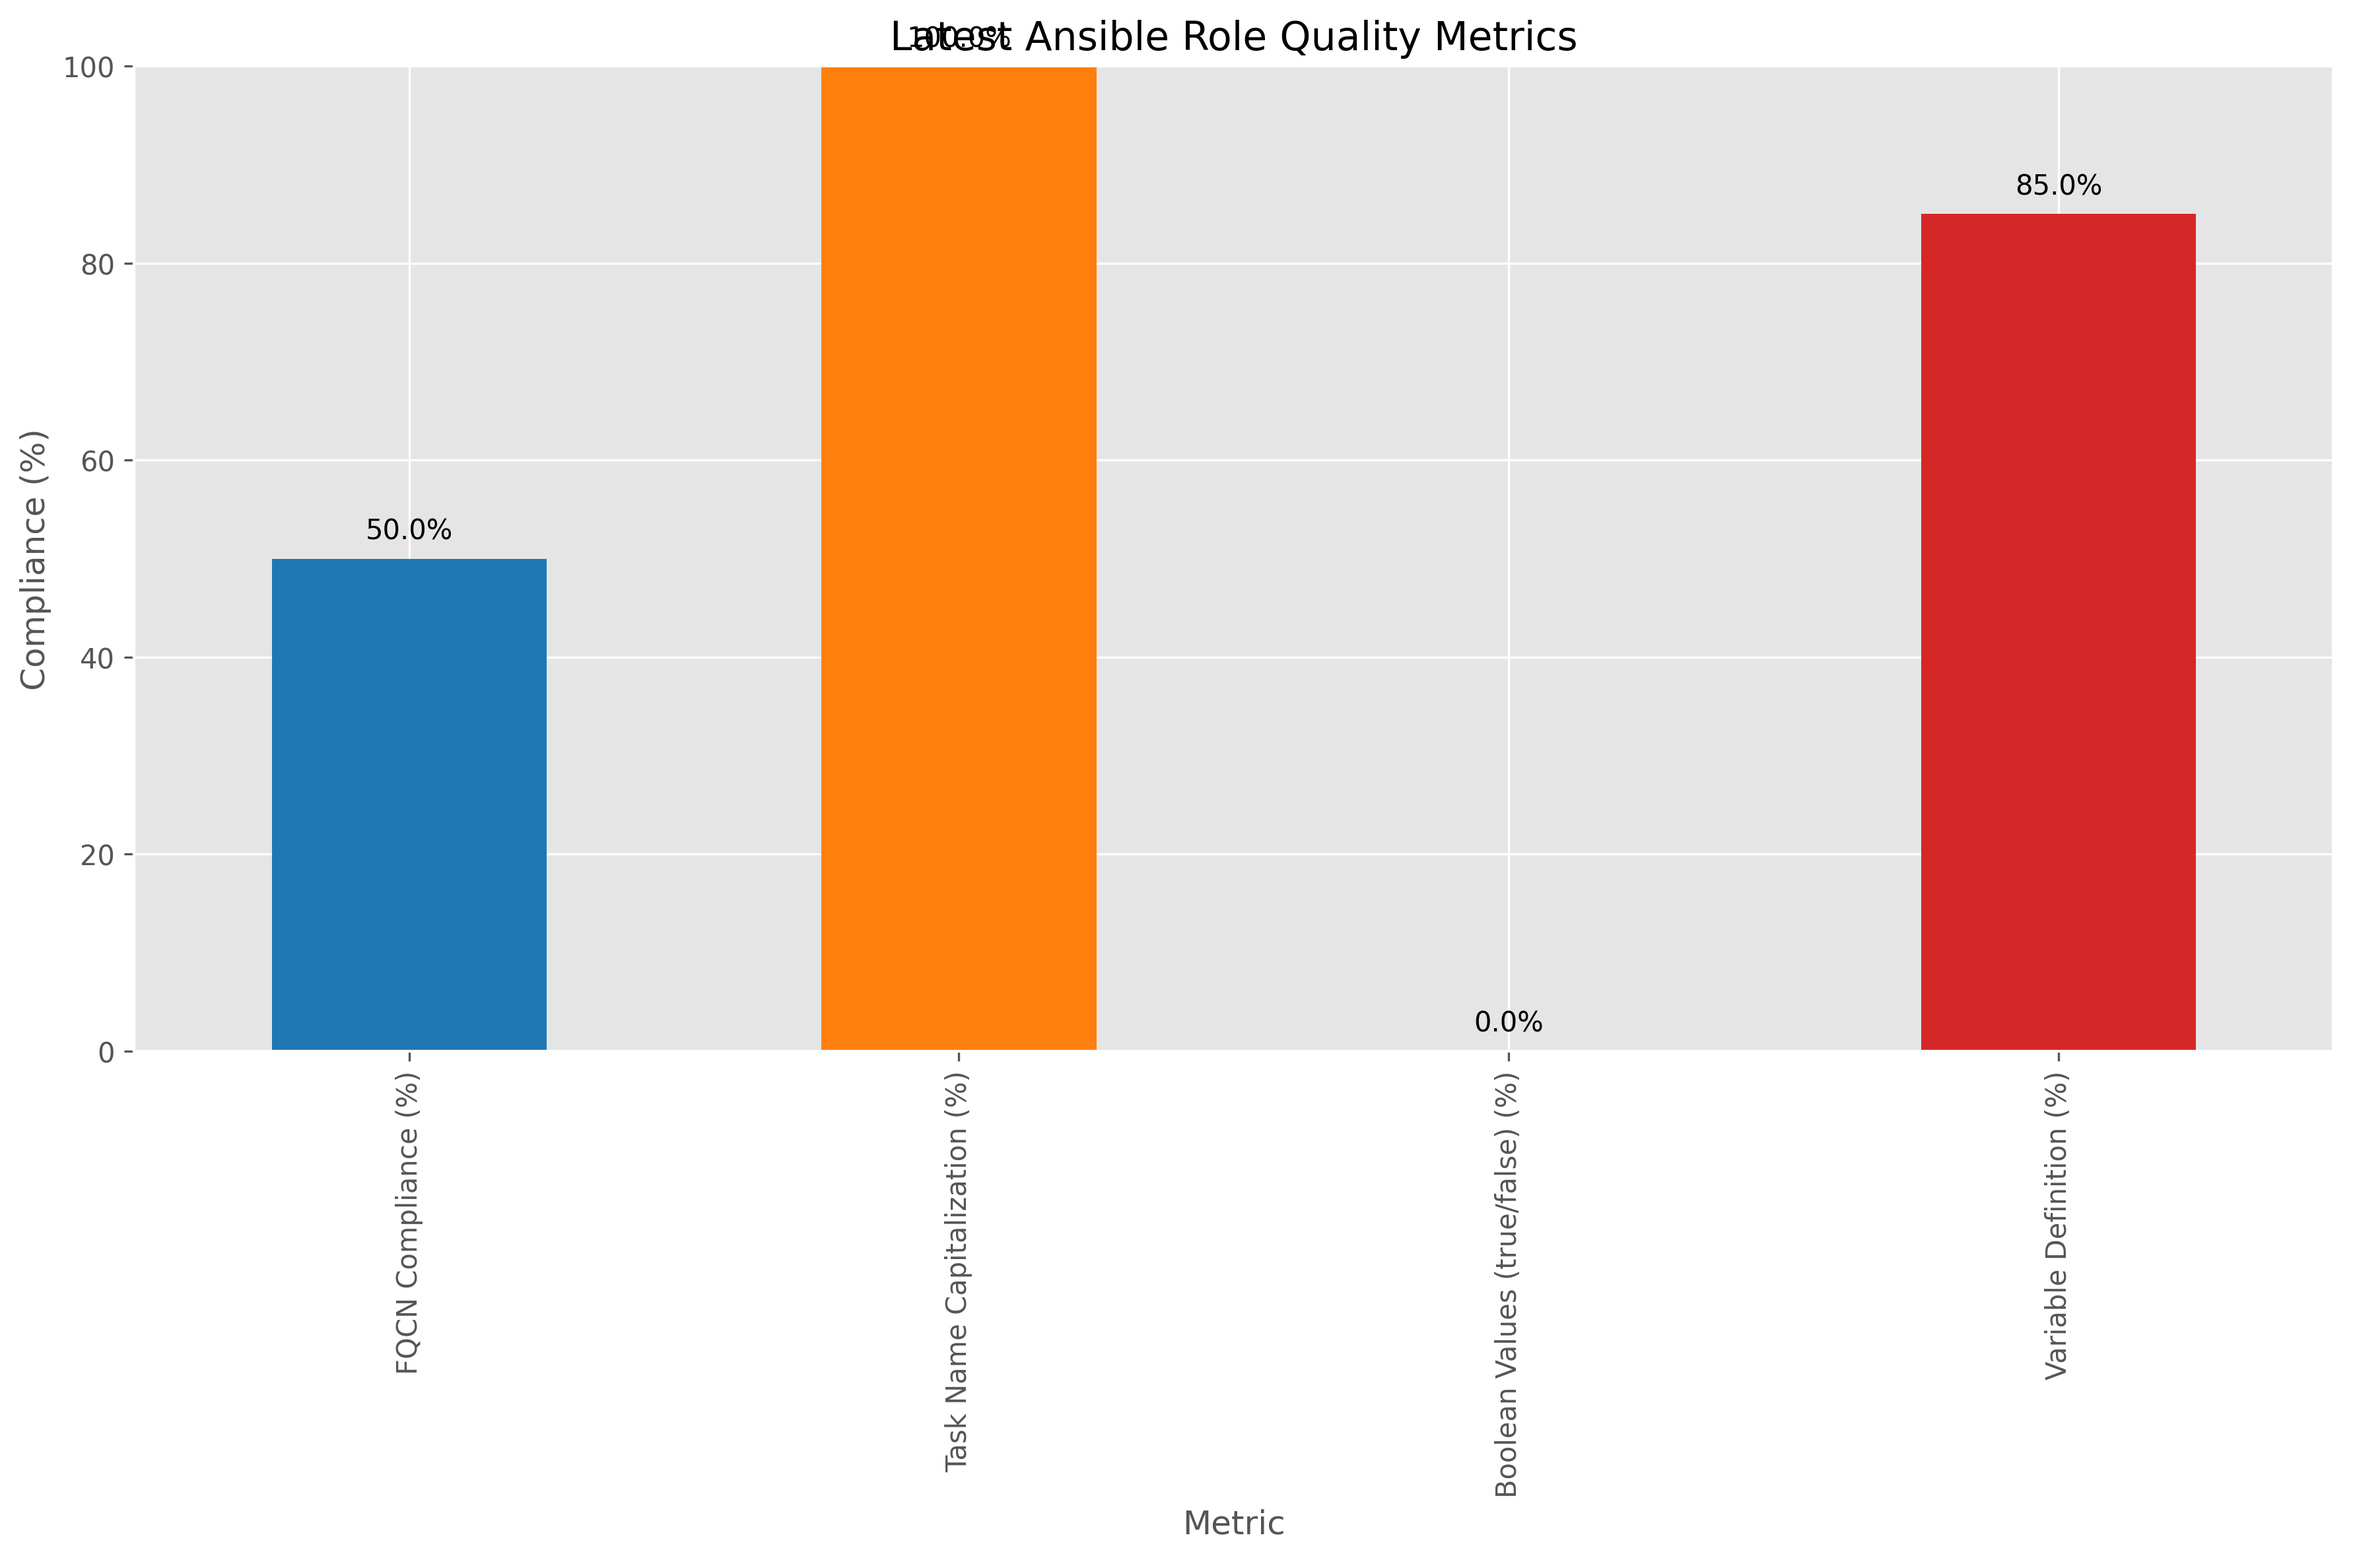
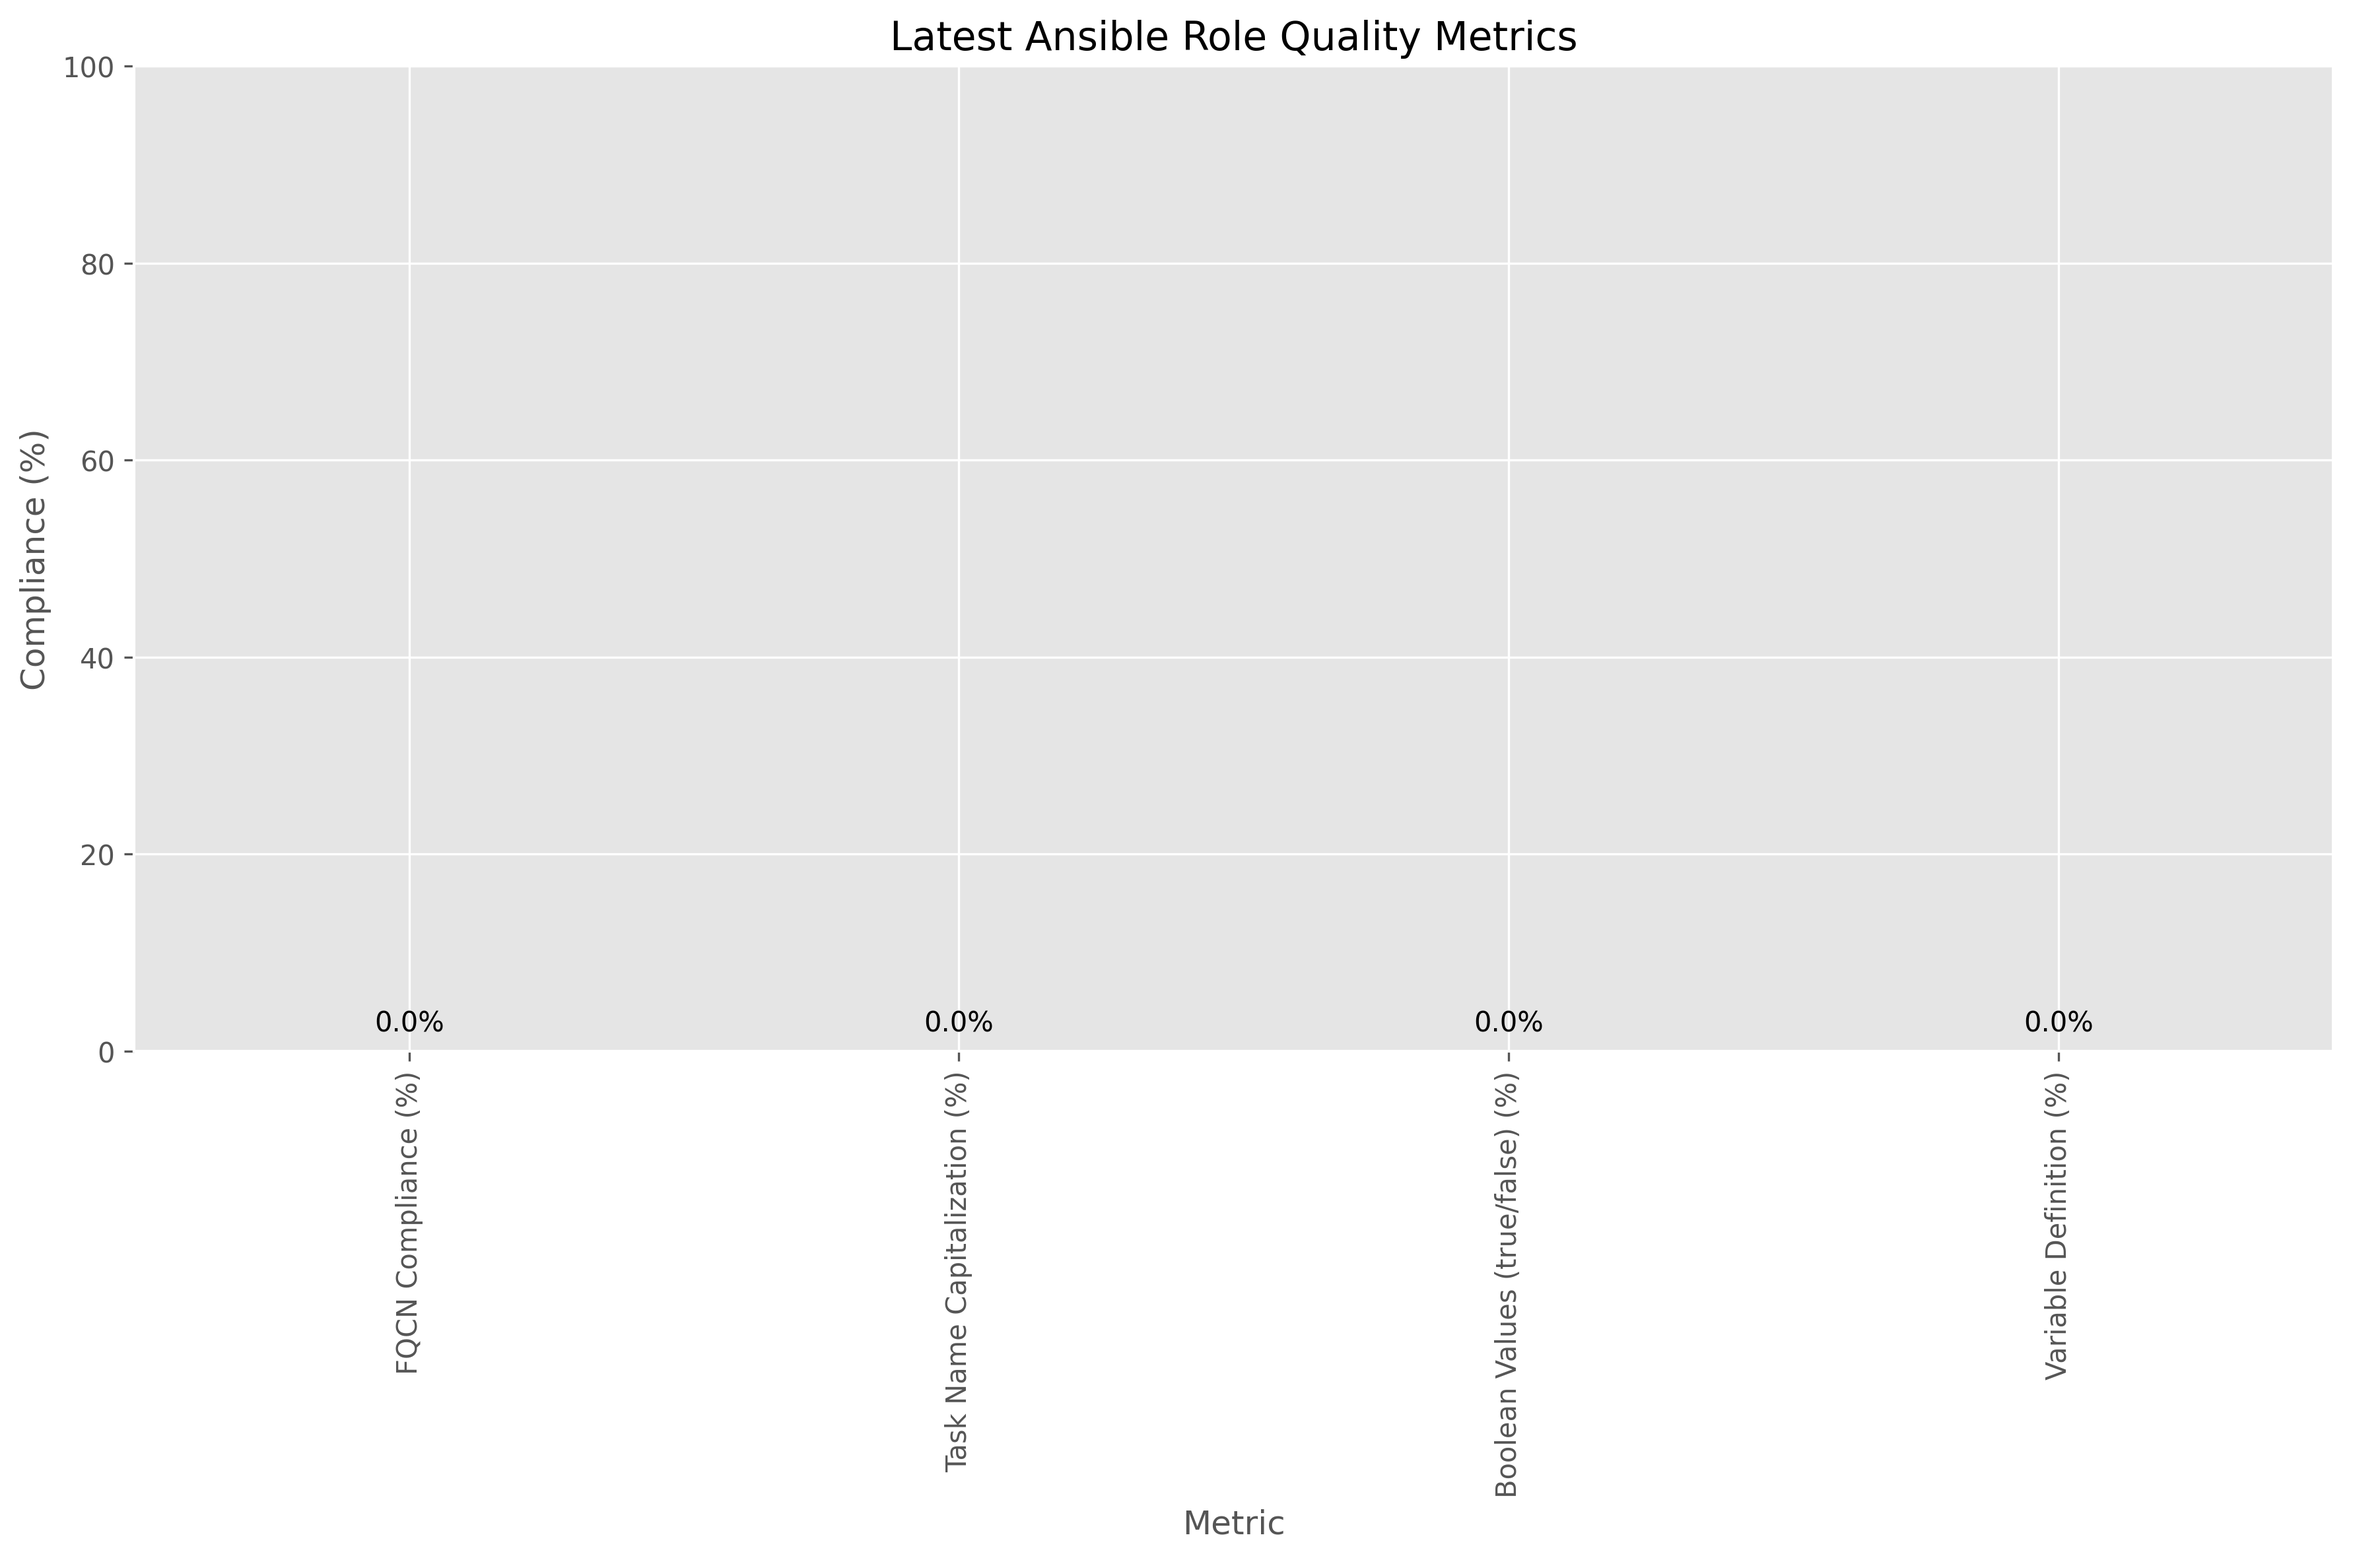
Update metrics (automated) 86381e575e3cb567ae7d61f2b827ec3665fe9a28

Changed region(s): [[0.3426, 0.0309, 0.4672, 0.6794], [0.8098, 0.1235, 0.9343, 0.6794], [0.0934, 0.3397, 0.2492, 0.6794]]

diff --git a/metrics/metrics_summary.md b/metrics/metrics_summary.md
@@ -1,15 +1,15 @@
 # Chef to Ansible Conversion Metrics
 
-Last updated: 2025-09-14 00:27:20
+Last updated: 2025-09-21 00:23:52
 
 ## Latest Compliance Metrics
 
 | Metric | Value |
 |--------|-------|
-| FQCN Compliance (%) | 50.00% |
-| Task Name Capitalization (%) | 100.00% |
+| FQCN Compliance (%) | 0.00% |
+| Task Name Capitalization (%) | 0.00% |
 | Boolean Values (true/false) (%) | 0.00% |
-| Variable Definition (%) | 85.00% |
+| Variable Definition (%) | 0.00% |
 
 ## Compliance Metrics Over Time
 
